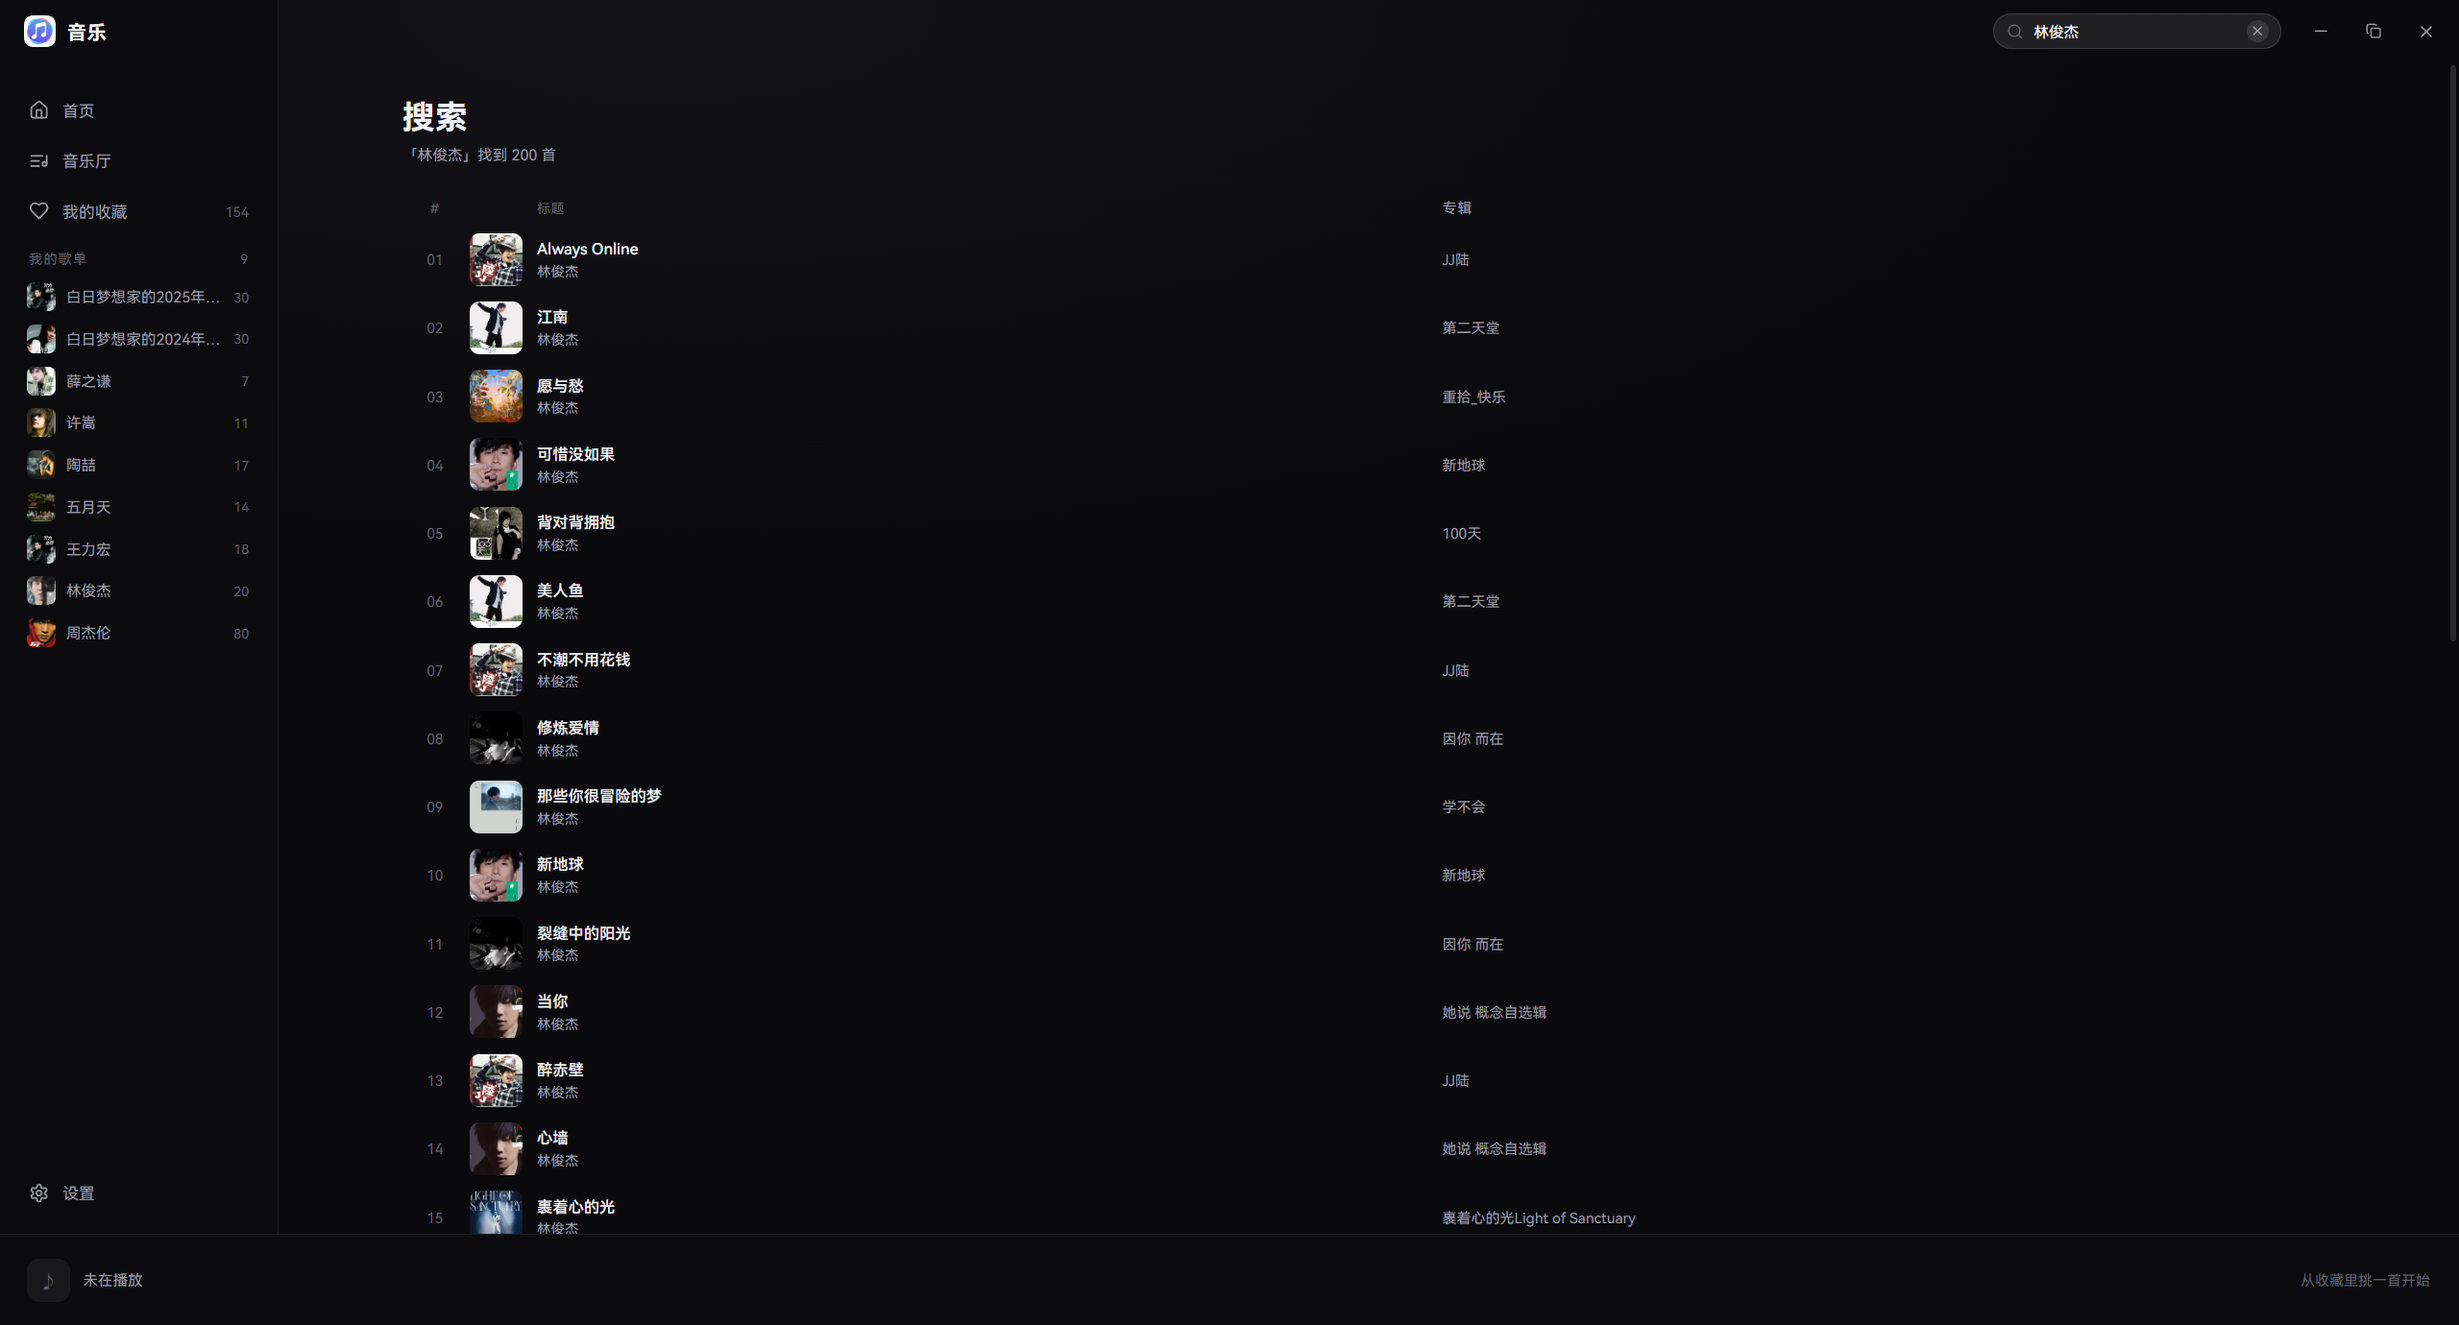
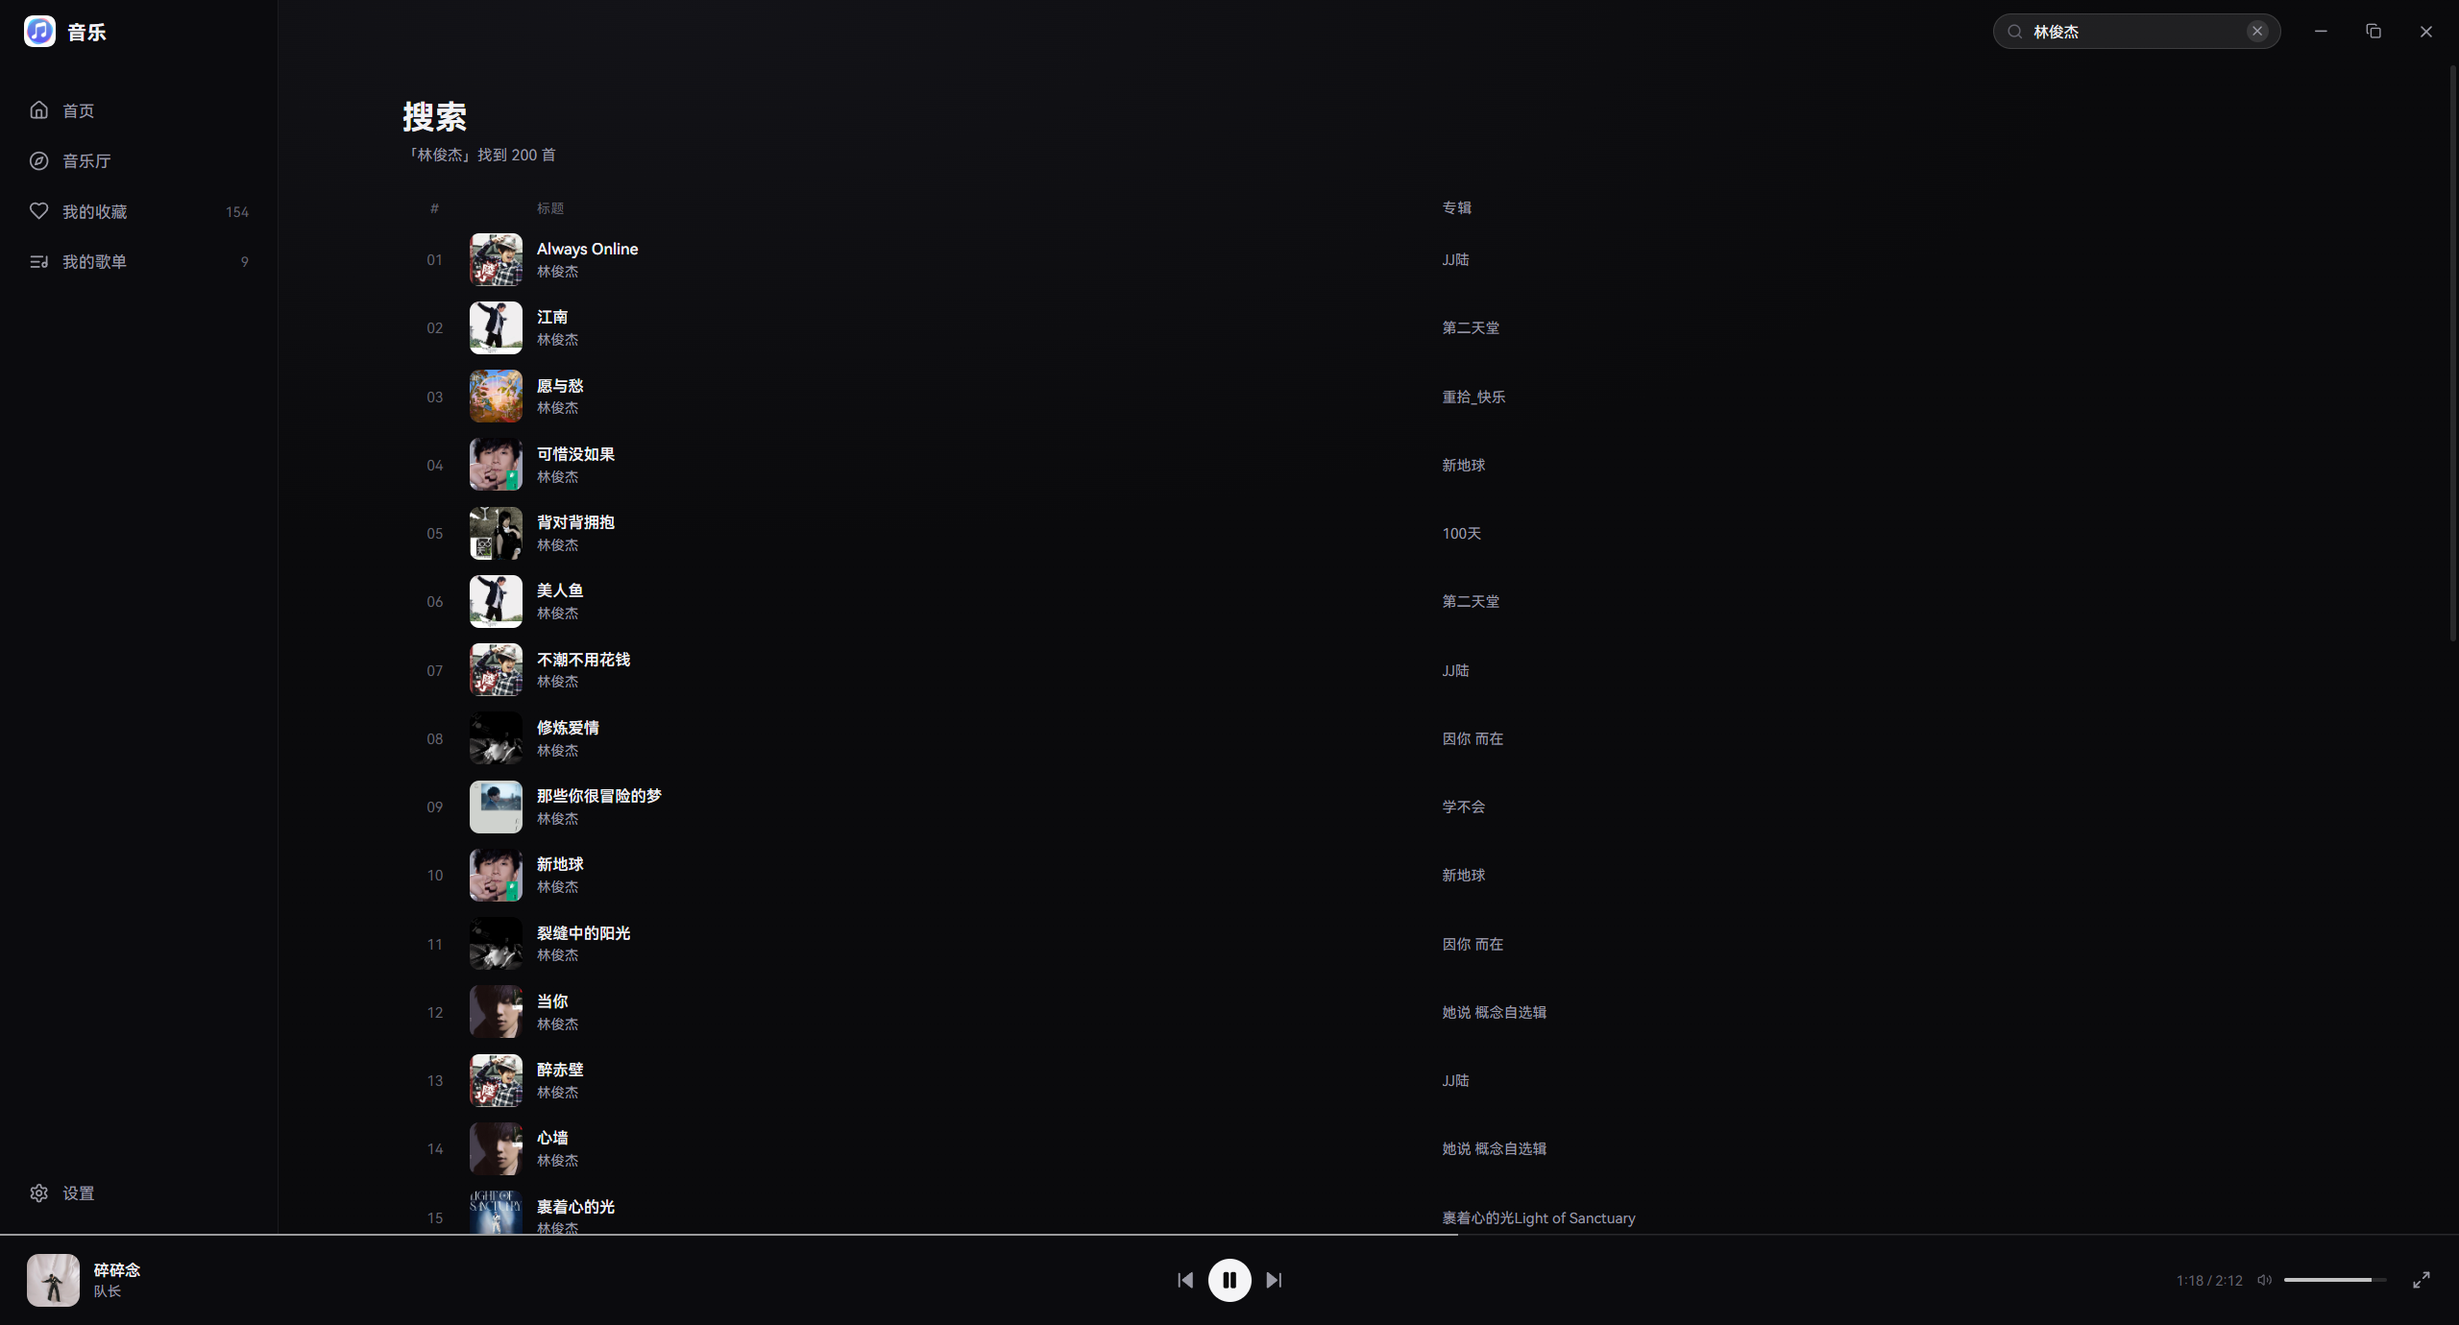
refactor(nav): 我的歌单收成一个导航条目，歌单改成整页
- 侧栏不再展开歌单列表：首页 / 音乐厅 / 我的收藏 / 我的歌单 / 设置，跟鸿蒙电脑版一样一层导航
- 新增「我的歌单」页：宫格铺满（9 个歌单实测），点进详情
- 歌单详情顶部加「‹ 我的歌单」返回，详情状态下侧栏仍高亮「我的歌单」
- 音乐厅图标换成指南针，跟我的歌单的列表图标区分开
- 删掉侧栏歌单用的那批样式；截图（含 2048 全屏）重拍

diff --git a/src/renderer/pages.tsx b/src/renderer/pages.tsx
@@ -1,5 +1,5 @@
 import { useCallback, useEffect, useMemo, useState } from 'react';
-import { Info, ListMusic, LogIn, LogOut, Play, RefreshCw, Settings, ShieldCheck, Trash2 } from 'lucide-react';
+import { ChevronLeft, Info, ListMusic, LogIn, LogOut, Play, RefreshCw, Settings, ShieldCheck, Trash2 } from 'lucide-react';
 import type { AppSettings, AuthStatus, LyricsCacheInfo, Playlist, Track } from '../shared/types';
 import { api } from './lib/api';
 import { artistsOf, Cover, EmptyState, SectionHeader, SkeletonRows, TrackRow } from './ui';
@@ -226,11 +226,13 @@ export function PlaylistScreen({
   currentId,
   playing,
   onPlay,
+  onBack,
 }: {
   playlist: Playlist;
   currentId?: string;
   playing: boolean;
   onPlay: PlayHandler;
+  onBack: () => void;
 }) {
   const [tracks, setTracks] = useState<Track[]>([]);
   const [nextStart, setNextStart] = useState(0);
@@ -272,6 +274,9 @@ export function PlaylistScreen({
 
   return (
     <div className="screen">
+      <button type="button" className="detail-back" onClick={onBack}>
+        <ChevronLeft size={14} /> 我的歌单
+      </button>
       <header className="detail-head">
         <Cover src={playlist.coverUrl} size={132} radius={14} className="detail-cover" />
         <div className="detail-meta">
@@ -584,46 +589,46 @@ export function SettingsScreen({
   );
 }
 
-/* ── 侧栏：歌单列表 + 底部设置 ──────────────────────────── */
+/* ── 我的歌单（整页）────────────────────────────────────── */
 
-export function SidebarPlaylists({
+export function PlaylistsScreen({
   playlists,
   loading,
-  activeId,
   onOpen,
 }: {
   playlists: Playlist[];
   loading: boolean;
-  activeId?: string;
   onOpen: (playlist: Playlist) => void;
 }) {
   return (
-    <div className="side-playlists">
-      <div className="side-section-head">
-        <span>我的歌单</span>
-        {playlists.length ? <span className="side-count">{playlists.length}</span> : null}
-      </div>
-      <div className="side-scroll">
-        {loading && playlists.length === 0 ? (
-          <div className="side-empty">正在读取…</div>
-        ) : playlists.length === 0 ? (
-          <div className="side-empty">还没有歌单</div>
-        ) : (
-          playlists.map(playlist => (
-            <button
-              type="button"
-              key={playlist.id}
-              className={`side-playlist ${activeId === playlist.id ? 'is-active' : ''}`}
-              onClick={() => onOpen(playlist)}
-              title={playlist.title}
-            >
-              <Cover src={playlist.coverUrl} size={24} radius={6} />
-              <span className="side-playlist-title">{playlist.title}</span>
-              {playlist.count ? <span className="side-count">{playlist.count}</span> : null}
+    <div className="screen">
+      <header className="screen-head">
+        <div>
+          <h1>我的歌单</h1>
+          <p className="screen-sub">{playlists.length ? `共 ${playlists.length} 个` : '华为音乐里的自建歌单'}</p>
+        </div>
+      </header>
+
+      {loading && playlists.length === 0 ? (
+        <SkeletonRows count={4} />
+      ) : playlists.length === 0 ? (
+        <EmptyState title="还没有歌单" hint="在华为音乐里建的歌单会同步到这里" />
+      ) : (
+        <div className="card-grid">
+          {playlists.map(playlist => (
+            <button type="button" key={playlist.id} className="card" onClick={() => onOpen(playlist)}>
+              <span className="card-art">
+                <Cover src={playlist.coverUrl} radius={12} />
+                <span className="card-play">
+                  <ListMusic size={16} />
+                </span>
+              </span>
+              <span className="card-title">{playlist.title}</span>
+              <span className="card-sub">{playlist.count ? `${playlist.count} 首` : '歌单'}</span>
             </button>
-          ))
-        )}
-      </div>
+          ))}
+        </div>
+      )}
     </div>
   );
 }

diff --git a/src/renderer/App.tsx b/src/renderer/App.tsx
@@ -1,10 +1,10 @@
 import { useCallback, useEffect, useRef, useState } from 'react';
-import { Copy, Heart, Home, ListMusic, Minus, Search, Square, X } from 'lucide-react';
+import { Compass, Copy, Heart, Home, ListMusic, Minus, Search, Square, X } from 'lucide-react';
 import type { AppSettings, AuthStatus, LyricsCacheInfo, Playlist, Track } from '../shared/types';
 import { api } from './lib/api';
 import { usePlayer } from './lib/player';
 import { FavoritesScreen, HomeScreen, LoginScreen } from './screens';
-import { HallScreen, PlaylistScreen, SearchScreen, SettingsScreen, SidebarFooter, SidebarPlaylists } from './pages';
+import { HallScreen, PlaylistScreen, PlaylistsScreen, SearchScreen, SettingsScreen, SidebarFooter } from './pages';
 import { MiniPlayer, PlayerScreen } from './PlayerView';
 import logo from './assets/app-icon.png';
 
@@ -12,6 +12,7 @@ type Route =
   | { name: 'home' }
   | { name: 'hall' }
   | { name: 'favorites' }
+  | { name: 'playlists' }
   | { name: 'settings' }
   | { name: 'playlist'; playlist: Playlist }
   | { name: 'search'; query: string };
@@ -337,7 +338,7 @@ export function App() {
                 className={`nav-item ${route.name === 'hall' ? 'is-active' : ''}`}
                 onClick={() => setRoute({ name: 'hall' })}
               >
-                <ListMusic size={17} />
+                <Compass size={17} />
                 音乐厅
               </button>
               <button
@@ -349,14 +350,16 @@ export function App() {
                 我的收藏
                 {total > 0 ? <span className="nav-count">{total}</span> : null}
               </button>
+              <button
+                type="button"
+                className={`nav-item ${route.name === 'playlists' || route.name === 'playlist' ? 'is-active' : ''}`}
+                onClick={() => setRoute({ name: 'playlists' })}
+              >
+                <ListMusic size={17} />
+                我的歌单
+                {playlists.length > 0 ? <span className="nav-count">{playlists.length}</span> : null}
+              </button>
             </nav>
-
-            <SidebarPlaylists
-              playlists={playlists}
-              loading={playlistsLoading}
-              activeId={route.name === 'playlist' ? route.playlist.id : undefined}
-              onOpen={openPlaylist}
-            />
           </>
         ) : null}
 
@@ -436,6 +439,8 @@ export function App() {
               onPlay={play}
               onToggleFavorite={track => void handleToggleFavorite(track)}
             />
+          ) : route.name === 'playlists' ? (
+            <PlaylistsScreen playlists={playlists} loading={playlistsLoading} onOpen={openPlaylist} />
           ) : route.name === 'playlist' ? (
             <PlaylistScreen
               key={route.playlist.id}
@@ -443,6 +448,7 @@ export function App() {
               currentId={player.current?.id}
               playing={player.playing}
               onPlay={play}
+              onBack={() => setRoute({ name: 'playlists' })}
             />
           ) : route.name === 'search' ? (
             <SearchScreen

diff --git a/src/renderer/styles.css b/src/renderer/styles.css
@@ -198,94 +198,6 @@ input {
   width: 100%;
 }
 
-/* 侧栏歌单：导航下面吃掉剩余高度，自己滚动 */
-.side-playlists {
-  display: flex;
-  flex-direction: column;
-  flex: 1;
-  min-height: 0;
-  margin-top: -8px;
-}
-
-.side-section-head {
-  display: flex;
-  align-items: center;
-  gap: 8px;
-  padding: 0 12px 7px;
-  font-size: 11.5px;
-  letter-spacing: 0.06em;
-  color: var(--faint);
-}
-
-.side-scroll {
-  display: flex;
-  flex-direction: column;
-  gap: 1px;
-  overflow-y: auto;
-  min-height: 0;
-  padding-right: 2px;
-}
-
-.side-scroll::-webkit-scrollbar {
-  width: 6px;
-}
-
-.side-scroll::-webkit-scrollbar-thumb {
-  border-radius: var(--radius-pill);
-  background: rgba(255, 255, 255, 0.1);
-}
-
-.side-playlist {
-  -webkit-app-region: no-drag;
-  display: flex;
-  align-items: center;
-  gap: 9px;
-  height: 34px;
-  padding: 0 10px;
-  border: none;
-  border-radius: var(--radius-md);
-  background: transparent;
-  color: var(--muted);
-  font-size: 12.5px;
-  text-align: left;
-  cursor: pointer;
-  flex: none;
-}
-
-.side-playlist:hover {
-  background: rgba(255, 255, 255, 0.05);
-  color: var(--text);
-}
-
-.side-playlist.is-active {
-  background: rgba(255, 255, 255, 0.09);
-  color: var(--text);
-}
-
-.side-playlist .cover {
-  flex: none;
-}
-
-.side-playlist-title {
-  min-width: 0;
-  overflow: hidden;
-  text-overflow: ellipsis;
-  white-space: nowrap;
-}
-
-.side-count {
-  margin-left: auto;
-  font-size: 11px;
-  color: var(--faint);
-  font-variant-numeric: tabular-nums;
-}
-
-.side-empty {
-  padding: 8px 12px;
-  font-size: 12px;
-  color: var(--faint);
-}
-
 .account {
   display: flex;
   align-items: center;
@@ -1935,4 +1847,22 @@ section {
 
 .switch.is-on > span {
   transform: translateX(18px);
+}
+
+/* 歌单详情页的返回 */
+.detail-back {
+  display: inline-flex;
+  align-items: center;
+  gap: 3px;
+  margin-bottom: 14px;
+  padding: 0;
+  border: none;
+  background: none;
+  color: var(--muted);
+  font-size: 12.5px;
+  cursor: pointer;
+}
+
+.detail-back:hover {
+  color: var(--text);
 }

diff --git a/README.md b/README.md
@@ -6,17 +6,21 @@
 
 ![首页](docs/screenshots/home.png)
 
-| 音乐厅 | 我的收藏 |
+| 音乐厅 | 我的歌单 |
 |---|---|
-| ![音乐厅](docs/screenshots/hall.png) | ![收藏](docs/screenshots/favorites.png) |
+| ![音乐厅](docs/screenshots/hall.png) | ![我的歌单](docs/screenshots/playlists.png) |
 
-| 歌单详情 | 设置 |
+| 歌单详情 | 我的收藏 |
 |---|---|
-| ![歌单](docs/screenshots/playlist.png) | ![设置](docs/screenshots/settings.png) |
+| ![歌单](docs/screenshots/playlist.png) | ![收藏](docs/screenshots/favorites.png) |
 
-| 播放页 | 未登录 |
+| 设置 | 播放页 |
 |---|---|
-| ![播放](docs/screenshots/player.png) | ![登录](docs/screenshots/login.png) |
+| ![设置](docs/screenshots/settings.png) | ![播放](docs/screenshots/player.png) |
+
+未登录时的引导页：
+
+![登录](docs/screenshots/login.png)
 
 窗口放大到 2048 宽（最大化）时，内容收口、播放页两栏居中，不会把卡片拉成一条：
 
@@ -35,7 +39,7 @@
 | 首页 | ✅ 可用 | 问候语 + 继续听大图 + 最近播放 + 收藏速览 |
 | 音乐厅 | ✅ 可用 | 播放记录聚合的常听歌手 + 我的歌单 + 收藏精选（换一批） |
 | 我的收藏 | ✅ 可用 | 全量分页拉取（154 首实测）、页内筛选、播放全部、取消收藏 |
-| 歌单 | ✅ 可用 | 侧栏列表 + 详情页（分页加载、播放全部），9 个歌单实测 |
+| 歌单 | ✅ 可用 | 「我的歌单」整页宫格 + 详情页（分页加载、播放全部、返回），9 个歌单实测 |
 | 搜索 | ✅ 可用 | 标题栏搜索走华为在线曲库，防抖 350ms、分页加载更多 |
 | 设置 | ✅ 可用 | 账号与退出登录、音质、关闭行为、历史上报、第三方歌词、歌词缓存、关于 |
 | 托盘 | ✅ 可用 | 托盘菜单（显示/播放控制/退出）+ 关闭到托盘，设置里可切换 |
@@ -137,7 +141,7 @@ src/
 
 | 鸿蒙电脑版 | 这里的实现 |
 |---|---|
-| 左侧四项导航（首页/音乐厅/café听/我的） | 首页 / 音乐厅 / 我的收藏 + 侧栏歌单列表，账号收进设置页 |
+| 左侧四项导航（首页/音乐厅/café听/我的） | 首页 / 音乐厅 / 我的收藏 / 我的歌单 + 底部设置，账号收进设置页 |
 | 顶部是系统标题栏 | **无边框自绘标题栏**（52px，上留白更松）：拖拽区 + 搜索 + 最小化/最大化/关闭，没有系统白条 |
 | 音乐厅：大 banner + 筛选胶囊 + 横滑卡片 | 首页：继续听横幅（用当前封面做底图）+ 最近播放横滑 + 收藏速览；音乐厅：常听歌手横排 + 歌单宫格 + 收藏精选 |
 | 播放是浮动小窗，左封面右歌词 | 全屏播放页，左封面右歌词居中排布，`Esc` 收起 |

diff --git a/docs/TECH-DESIGN.md b/docs/TECH-DESIGN.md
@@ -53,11 +53,10 @@
 
 ```
 App（grid：左栏 232px / 右栏；行：内容 / 播放条 76px）
-├─ sidebar              品牌（拖拽区）/ 首页 / 音乐厅 / 我的收藏（带数量）
-│                       我的歌单（可滚动列表）/ 底部「设置」入口
+├─ sidebar              品牌（拖拽区）/ 首页 / 音乐厅 / 我的收藏 / 我的歌单 / 底部「设置」入口
 ├─ stage
 │   ├─ TitleBar         52px 自绘标题栏：搜索框（在线搜索）+ 最小化/最大化/关闭（按钮内缩）
-│   └─ main             LoginScreen | HomeScreen | HallScreen | FavoritesScreen
+│   └─ main             LoginScreen | HomeScreen | HallScreen | FavoritesScreen | PlaylistsScreen
 │                       | PlaylistScreen | SearchScreen | SettingsScreen
 ├─ MiniPlayer           常驻 76px 播放条（无曲目时是空态）
 ├─ PlayerScreen         全屏播放页（覆盖层 from 52px，Esc 关闭）
@@ -65,8 +64,9 @@ App（grid：左栏 232px / 右栏；行：内容 / 播放条 76px）
 └─ toast
 ```
 
-路由是一个判别联合（`{ name: 'home' | 'hall' | 'favorites' | 'settings' } | { name: 'playlist'; playlist } | { name: 'search'; query }`），
-不引路由库；账号信息原来的底部账号块已经搬进设置页，侧栏只留导航。
+路由是一个判别联合（`{ name: 'home' | 'hall' | 'favorites' | 'playlists' | 'settings' }`
+`| { name: 'playlist'; playlist } | { name: 'search'; query }`），不引路由库；
+账号信息原来的底部账号块已经搬进设置页，侧栏只留导航，歌单也不再在侧栏展开。
 `PlaylistScreen` / `SearchScreen` 自己管分页状态（`start` / `hasMore` / `loadingMore`），App 只传当前歌单或关键词。
 
 ### 3.2 状态
